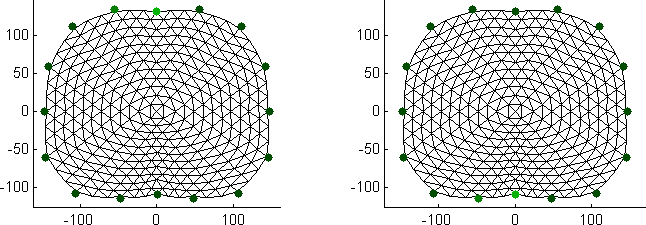
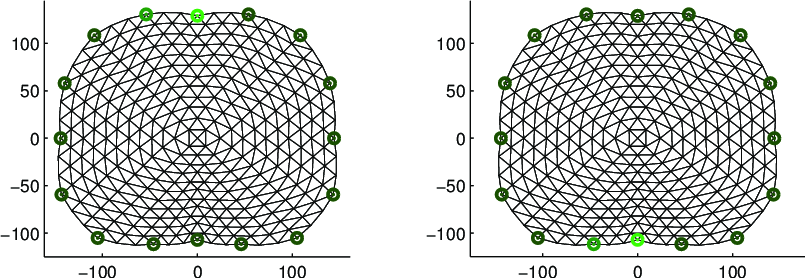
print convert tutorial
git-svn-id: svn://svn.code.sf.net/p/eidors3d/code/trunk@2762 82006732-fb7e-4a22-9f28-86a212cce563

diff --git a/htdocs/tutorial/lung_EIT/tutorial310c.m b/htdocs/tutorial/lung_EIT/tutorial310c.m
@@ -8,4 +8,4 @@ img= inv_solve(imdl_d, zc_resp(:,1), zc_resp);
 clf; show_slices(img)
 axis equal
 
-print -r100 -dpng tutorial310c.png;
+print_convert tutorial310c.png;

diff --git a/htdocs/tutorial/lung_EIT/tutorial310b.m b/htdocs/tutorial/lung_EIT/tutorial310b.m
@@ -18,4 +18,4 @@ subplot(222);
 show_fem(imdl_d.fwd_model);
 
 axis equal
-print -r100 -dpng tutorial310b.png;
+print_convert tutorial310b.png;

diff --git a/htdocs/tutorial/lung_EIT/tutorial310a.m b/htdocs/tutorial/lung_EIT/tutorial310a.m
@@ -25,4 +25,4 @@ subplot(221);
 show_fem(imdl.fwd_model);
 
 axis equal
-print -r100 -dpng tutorial310a.png;
+print_convert tutorial310a.png;
